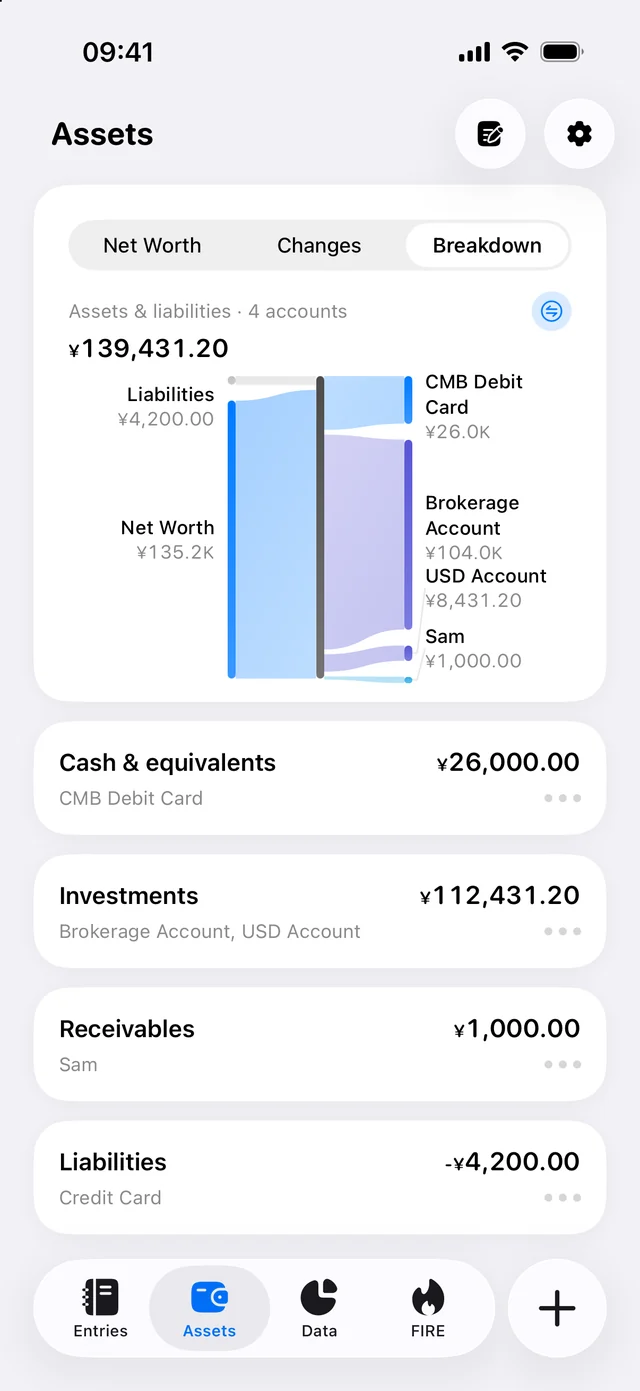
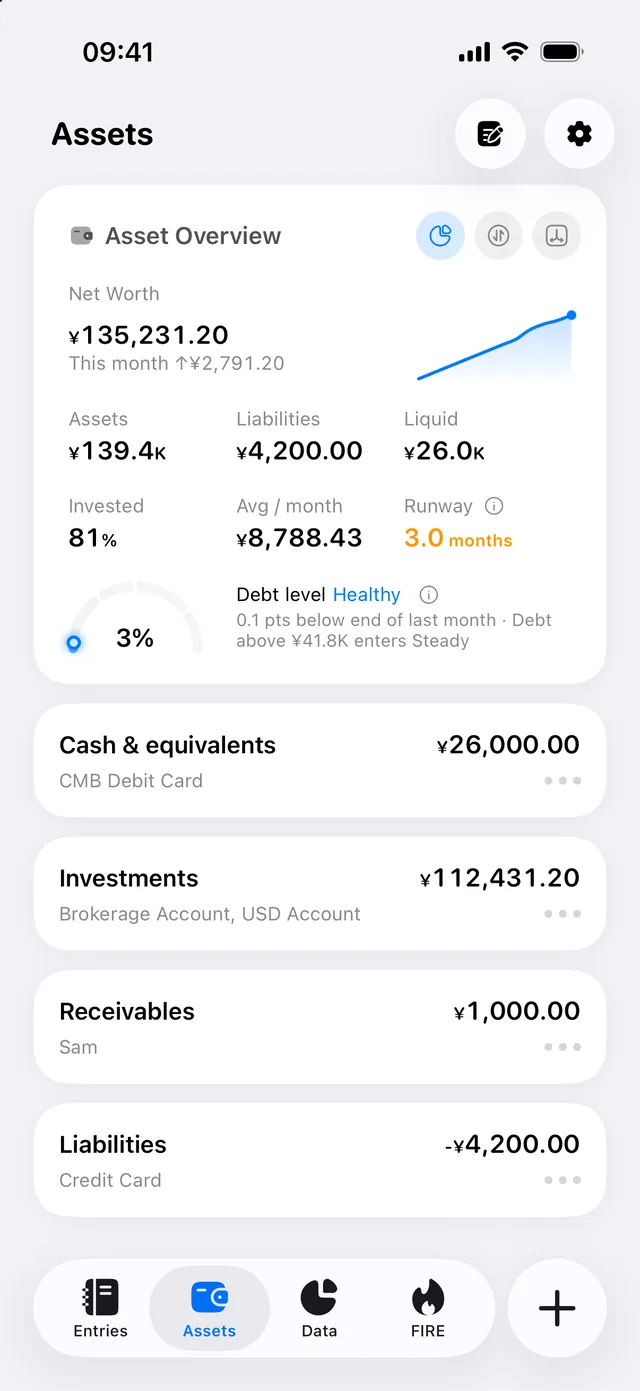
首页与手册截图换成 1.0.9 界面（中英各 7 张，模拟器演示账本）；首页倒计时文案跟着截图改成 14 年 11 个月

diff --git a/src/pages/Home.tsx b/src/pages/Home.tsx
@@ -120,7 +120,7 @@ function Hero() {
 
 /* ---------- 功能四屏：桌面端 pin 住整段，滚动切屏 ---------- */
 const FEATURES = [
-  { img: "fire-pro", zh: ["自由倒计时", "首页最大的数字不是余额，是「还有 16 年 2 个月」。拖动试算滑杆，它实时重算。"], en: ["Freedom countdown", "The biggest number isn't a balance. It's \"16 years, 2 months to go,\" and it moves as you drag the sliders."] },
+  { img: "fire-pro", zh: ["自由倒计时", "首页最大的数字不是余额，是「还有 14 年 11 个月」。拖动试算滑杆，它实时重算。"], en: ["Freedom countdown", "The biggest number isn't a balance. It's \"14 years, 11 months to go,\" and it moves as you drag the sliders."] },
   { img: "ledger", zh: ["复杂的钱也记得清", "AA、报销、分次退款、组合支付、分期、周期账单，都有自己的位置。"], en: ["The messy stuff, handled", "Splits, reimbursements, partial refunds, installments, recurring bills. Each has a place."] },
   { img: "assets", zh: ["资产看趋势", "现金、投资、不动产、负债分开算。校准一次，之后的流水自动往上叠。"], en: ["Net worth as a trend", "Cash, investments, property, debt. Reconcile once; everything after stacks on top."] },
   { img: "budget", zh: ["预算看节奏", "月中就知道会不会超。建议额度按你真实花过的来，不是拍脑袋。"], en: ["Budget by pace", "Know mid-month if you'll go over. Limits from what you actually spent, not a guess."] },
